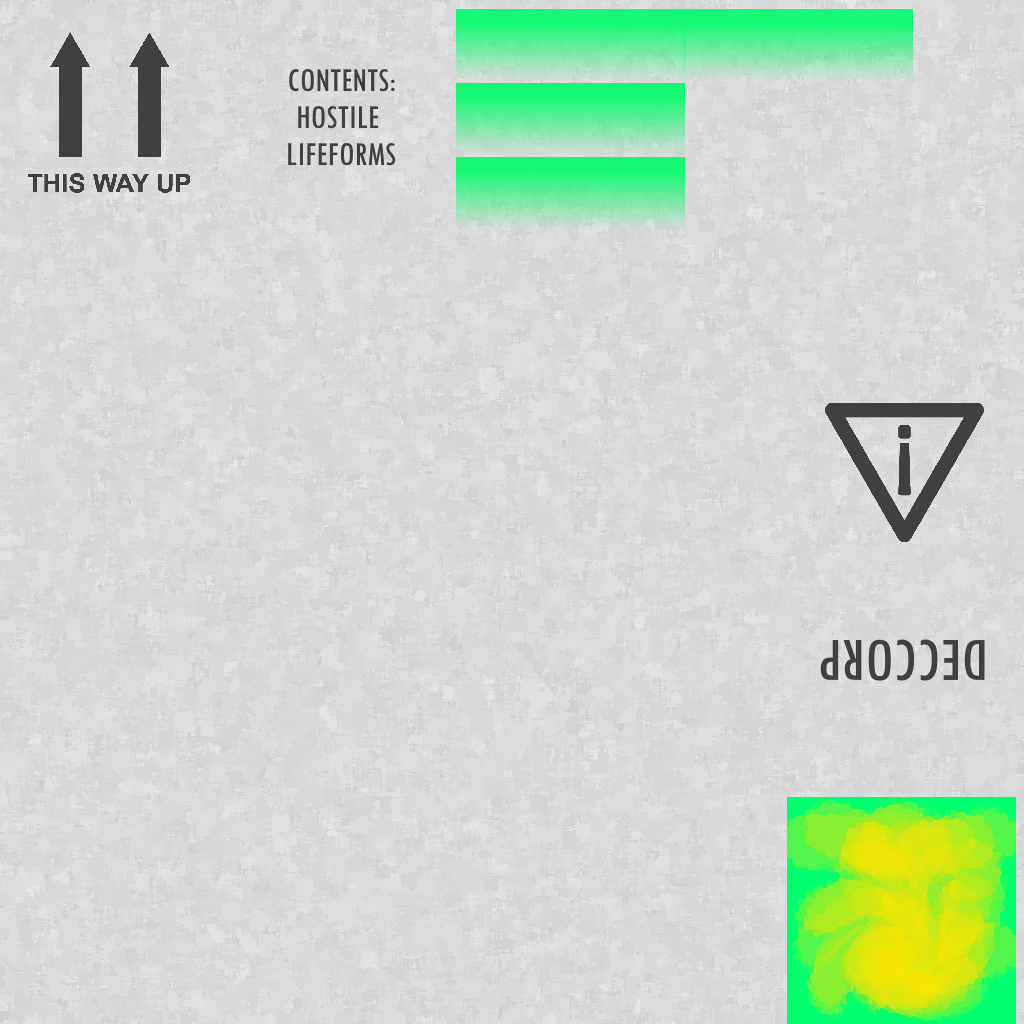
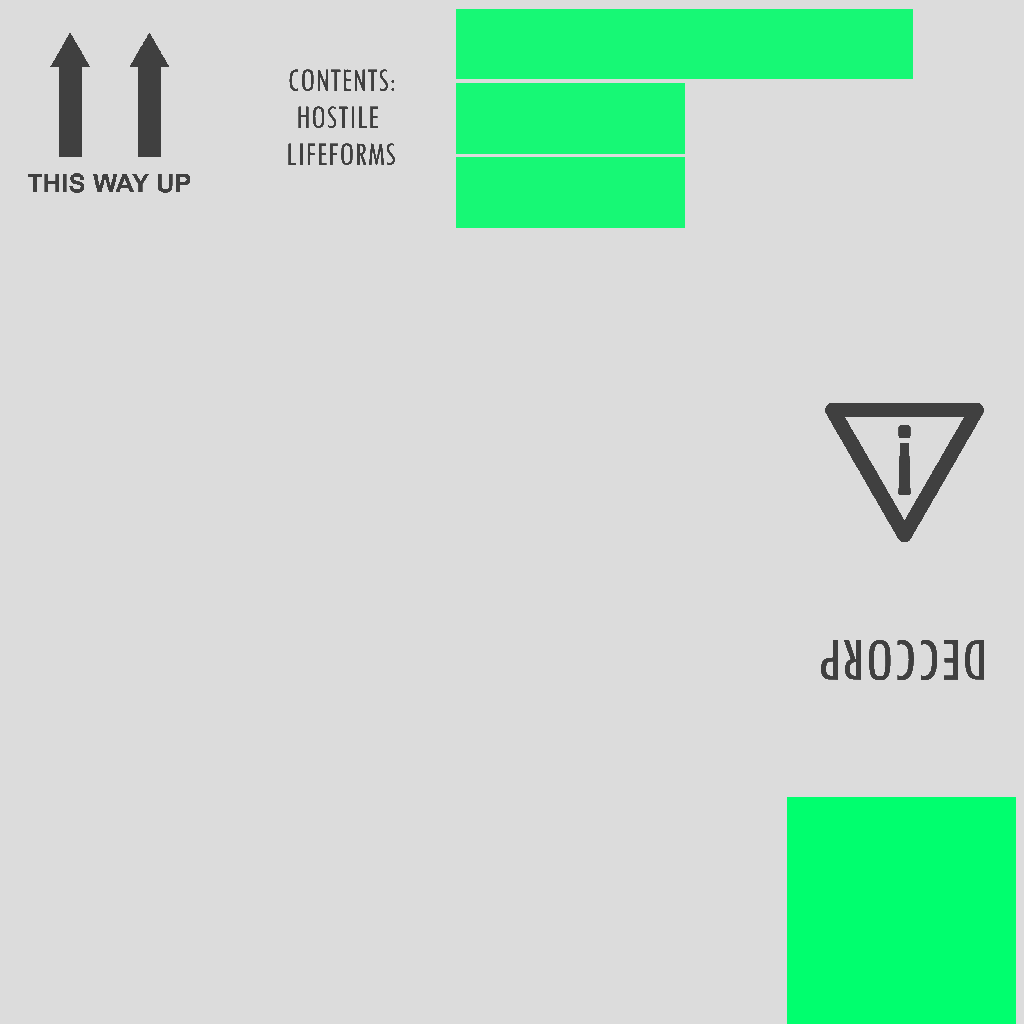
Flat textures and cloud component.

Changed region(s): [[0.4375, 0.0312, 0.9062, 0.25], [0.75, 0.7812, 1.0, 1.0], [0.3125, 0.0625, 0.3438, 0.0938]]

diff --git a/src/polyorbis/entities/components/ComponentPlayer.java b/src/polyorbis/entities/components/ComponentPlayer.java
@@ -100,8 +100,17 @@ public class ComponentPlayer extends IComponentEntity implements IComponentEdito
 
 		// Kill the player!
 		if (health <= 0.0f) {
-			PolyWorld.setEndGameData(new PlayData(experience, survivalTime, kills));
+			fireProjectile(3, new Vector2f(0.03f, 0.0f));
 			getEntity().remove();
+			new java.util.Timer().schedule(
+					new java.util.TimerTask() {
+						@Override
+						public void run() {
+							PolyWorld.setEndGameData(new PlayData(experience, survivalTime, kills));
+						}
+					},
+					3000
+			);
 			return;
 		}
 
@@ -173,49 +182,11 @@ public class ComponentPlayer extends IComponentEntity implements IComponentEdito
 				direction.x += 0.03f;
 			}
 
+			// Normalize speeds into directions.
 			direction.normalize();
 
 			// Fire a type of selected particle.
-			switch (selectedCharge) {
-				case 1:
-					if (charge1 > 0.0f) {
-						new InstanceProjectile1(FlounderEntities.getEntities(), new Vector3f(0.0f, currentY, currentZ), currentRadius, new Vector3f(0.0f, direction.x, direction.y), true);
-					}
-
-					charge1 -= 0.08f;
-					charge1 = Maths.clamp(charge1, 0.0f, 1.0f);
-					break;
-				case 2:
-					if (charge2 > 0.0f) {
-						new InstanceProjectile2(FlounderEntities.getEntities(), new Vector3f(0.0f, currentY, currentZ), currentRadius, new Vector3f(0.0f, direction.x, direction.y), true);
-					}
-
-					charge2 -= 0.09f;
-					charge2 = Maths.clamp(charge2, 0.0f, 1.0f);
-					break;
-				case 3:
-					if (charge3 > 0.0f) {
-						float amount = 32.0f;
-
-						for (int i = 0; i < amount; i++) {
-							float theta = 360.0f * ((float) i / amount);
-							Vector2f d = new Vector2f();
-							Vector2f.rotate(new Vector2f(1.0f, 0.0f), theta, d);
-
-							// Fixes any zero vectors.
-							if (d.isZero()) {
-								d.x += 0.03f;
-							}
-
-							d.normalize();
-							new InstanceProjectile3(FlounderEntities.getEntities(), new Vector3f(0.0f, currentY, currentZ), currentRadius, new Vector3f(0.0f, d.x, d.y), true);
-						}
-					}
-
-					charge3 -= 0.20f;
-					charge3 = Maths.clamp(charge3, 0.0f, 1.0f);
-					break;
-			}
+			fireProjectile(selectedCharge, direction);
 		}
 
 		// Normalizes angles and limits Y rotation to make movement easier.
@@ -239,6 +210,49 @@ public class ComponentPlayer extends IComponentEntity implements IComponentEdito
 		//	Vector3f.subtract(dr, getEntity().getRotation(), dr);
 		//	getEntity().move(dd, dr);
 		//	getEntity().setMoved();
+	}
+
+	private void fireProjectile(int type, Vector2f direction) {
+		switch (type) {
+			case 1:
+				if (charge1 > 0.0f) {
+					new InstanceProjectile1(FlounderEntities.getEntities(), new Vector3f(0.0f, currentY, currentZ), currentRadius, new Vector3f(0.0f, direction.x, direction.y), true);
+				}
+
+				charge1 -= 0.08f;
+				charge1 = Maths.clamp(charge1, 0.0f, 1.0f);
+				break;
+			case 2:
+				if (charge2 > 0.0f) {
+					new InstanceProjectile2(FlounderEntities.getEntities(), new Vector3f(0.0f, currentY, currentZ), currentRadius, new Vector3f(0.0f, direction.x, direction.y), true);
+				}
+
+				charge2 -= 0.09f;
+				charge2 = Maths.clamp(charge2, 0.0f, 1.0f);
+				break;
+			case 3:
+				if (charge3 > 0.0f) {
+					float amount = 32.0f;
+
+					for (int i = 0; i < amount; i++) {
+						float theta = 360.0f * ((float) i / amount);
+						Vector2f d = new Vector2f();
+						Vector2f.rotate(new Vector2f(1.0f, 0.0f), theta, d);
+
+						// Fixes any zero vectors.
+						if (d.isZero()) {
+							d.x += 0.03f;
+						}
+
+						d.normalize();
+						new InstanceProjectile3(FlounderEntities.getEntities(), new Vector3f(0.0f, currentY, currentZ), currentRadius, new Vector3f(0.0f, d.x, d.y), true);
+					}
+				}
+
+				charge3 -= 0.20f;
+				charge3 = Maths.clamp(charge3, 0.0f, 1.0f);
+				break;
+		}
 	}
 
 	public float getCurrentY() {

diff --git a/src/polyorbis/entities/components/ComponentCloud.java b/src/polyorbis/entities/components/ComponentCloud.java
@@ -1,0 +1,75 @@
+package polyorbis.entities.components;
+
+import flounder.entities.*;
+import flounder.framework.*;
+import flounder.guis.*;
+import flounder.helpers.*;
+import flounder.maths.*;
+import flounder.maths.vectors.*;
+import polyorbis.world.*;
+
+import javax.swing.*;
+
+public class ComponentCloud extends IComponentEntity implements IComponentEditor {
+	private Vector3f rotation;
+	private float radius;
+
+	private Vector3f direction;
+	private float deviation;
+	private float randomness;
+
+	/**
+	 * Creates a new ComponentCloud.
+	 *
+	 * @param entity The entity this component is attached to.
+	 */
+	public ComponentCloud(Entity entity) {
+		super(entity);
+	}
+
+	public ComponentCloud(Entity entity, Vector3f rotation, float radius, Vector3f direction, float deviation) {
+		super(entity);
+
+		this.rotation = rotation;
+		this.radius = radius;
+
+		this.direction = direction.scale(Maths.randomInRange(0.8f, 1.2f));
+		this.deviation = deviation;
+		this.randomness = Maths.randomInRange(0.0f, 10.0f);
+	}
+
+	@Override
+	public void update() {
+		// Do not update on paused.
+		if (FlounderGuis.getGuiMaster() == null || FlounderGuis.getGuiMaster().isGamePaused()) {
+			return;
+		}
+
+		Vector3f right = new Vector3f(direction).scale(360.0f * Framework.getDelta());
+		right.y -= deviation * Math.cos(Math.PI * randomness * Framework.getTimeSec());
+		right.z += deviation * Math.sin(Math.PI * randomness * Framework.getTimeSec());
+		Vector3f.add(rotation, right, rotation);
+		Vector3f.rotate(new Vector3f(0.0f, radius, 0.0f), rotation, getEntity().getPosition());
+		getEntity().setMoved();
+	}
+
+	@Override
+	public void addToPanel(JPanel panel) {
+	}
+
+	@Override
+	public void editorUpdate() {
+	}
+
+	@Override
+	public Pair<String[], String[]> getSaveValues(String entityName) {
+		return new Pair<>(
+				new String[]{}, // Static variables
+				new String[]{} // Class constructor
+		);
+	}
+
+	@Override
+	public void dispose() {
+	}
+}

diff --git a/src/polyorbis/PolyConfigs.java b/src/polyorbis/PolyConfigs.java
@@ -32,7 +32,7 @@ public class PolyConfigs {
 	public static final ConfigData FRAMEWORK_FPS_LIMIT = CONFIG_MAIN.getData(ConfigSection.GRAPHICS, "frameworkFpsLimit", 144, Framework::getFpsLimit);
 	public static final ConfigData TEXTURES_ANISOTROPY_MAX = CONFIG_MAIN.getData(ConfigSection.GRAPHICS, "texturesAnisotropyMax", 8.0f, FlounderTextures::getAnisotropyLevel);
 
-	public static final ConfigData BRIGHTNESS_BOOST = CONFIG_MAIN.getData(ConfigSection.GRAPHICS, "brightnessBoost", 0.1f, FlounderShadows::getBrightnessBoost);
+	public static final ConfigData BRIGHTNESS_BOOST = CONFIG_MAIN.getData(ConfigSection.GRAPHICS, "brightnessBoost", 0.18f, FlounderShadows::getBrightnessBoost);
 	public static final ConfigData SHADOWMAP_SIZE = CONFIG_MAIN.getData(ConfigSection.GRAPHICS, "shadowmapSize", 8192, FlounderShadows::getShadowSize);
 	public static final ConfigData SHADOWMAP_PCF = CONFIG_MAIN.getData(ConfigSection.GRAPHICS, "shadowmapPcf", 0, FlounderShadows::getShadowPCF);
 	public static final ConfigData SHADOWMAP_BIAS = CONFIG_MAIN.getData(ConfigSection.GRAPHICS, "shadowmapBias", 0.0003f, FlounderShadows::getShadowBias);

diff --git a/src/polyorbis/entities/instances/InstanceHealth.java b/src/polyorbis/entities/instances/InstanceHealth.java
@@ -28,7 +28,7 @@ public class InstanceHealth extends Entity {
 		new ComponentRotate(this, rotation, radius, new Vector3f(0.0f, 1.0f, 1.0f), 0.4f);
 		new ComponentModel(this, 0.18f, MODEL, TEXTURE, 1);
 		new ComponentSurface(this, 1.0f, 0.0f, false, false);
-		new ComponentLight(this, new Vector3f(0.0f, 0.0f, 0.0f), new Colour(0.812f, 0.243f, 0.131f), new Attenuation(1.0f, 0.02f, 2.0f));
+		new ComponentLight(this, new Vector3f(0.0f, 0.0f, 0.0f), new Colour(1.0f, 0.125f, 0.588f), new Attenuation(1.0f, 0.02f, 2.0f));
 		new ComponentCollision(this);
 		new ComponentRemoveFade(this);
 	}

diff --git a/src/polyorbis/entities/instances/InstanceSun.java b/src/polyorbis/entities/instances/InstanceSun.java
@@ -20,7 +20,7 @@ public class InstanceSun extends Entity {
 	public InstanceSun(ISpatialStructure<Entity> structure, Vector3f position, Vector3f rotation) {
 		super(structure, position, rotation);
 		new ComponentCelestial(this);
-		new ComponentModel(this, 5.0f, MODEL, TEXTURE, 1);
+		new ComponentModel(this, 3.0f, MODEL, TEXTURE, 1);
 		new ComponentGlow(this, TEXTURE_GLOW);
 		new ComponentSurface(this, 1.0f, 0.0f, true, true);
 		new ComponentLight(this, new Vector3f(0.0f, 0.0f, 0.0f), new Colour(PolyWorld.SUN_COLOUR), new Attenuation(1.0f, 0.0f, 0.0f));

diff --git a/src/polyorbis/entities/instances/InstanceEnemy1.java b/src/polyorbis/entities/instances/InstanceEnemy1.java
@@ -20,7 +20,7 @@ public class InstanceEnemy1 extends Entity {
 		super(structure, Vector3f.rotate(new Vector3f(0.0f, radius, 0.0f), rotation, null), new Vector3f(0.0f, rotation.y, rotation.z));
 		new ComponentEnemy(this, rotation, radius, 0.9f);
 		new ComponentCollect(this, pc -> {
-			pc.modifyHealth(-0.2f);
+			pc.modifyHealth(-0.3f);
 		});
 		new ComponentModel(this, 0.13f, MODEL, TEXTURE, 1);
 		new ComponentSurface(this, 1.0f, 0.0f, false, false);

diff --git a/src/polyorbis/entities/instances/InstancePlanet.java b/src/polyorbis/entities/instances/InstancePlanet.java
@@ -15,6 +15,7 @@ public class InstancePlanet extends Entity {
 
 	public InstancePlanet(ISpatialStructure<Entity> structure, Vector3f position, Vector3f rotation) {
 		super(structure, position, rotation);
+		TEXTURE.setHasAlpha(true);
 		new ComponentPlanet(this,
 				new InstanceSun(FlounderEntities.getEntities(), new Vector3f(-100.0f, -100.0f, -100.0f), new Vector3f()),
 				new Entity[]{

diff --git a/src/polyorbis/entities/instances/InstancePlayer.java b/src/polyorbis/entities/instances/InstancePlayer.java
@@ -19,6 +19,7 @@ public class InstancePlayer extends Entity {
 		new ComponentModel(this, 0.2f, MODEL, TEXTURE, 1);
 		new ComponentSurface(this, 1.0f, 0.0f, false, false);
 		new ComponentCollision(this);
+		new ComponentRemoveFade(this);
 	}
 }
 
